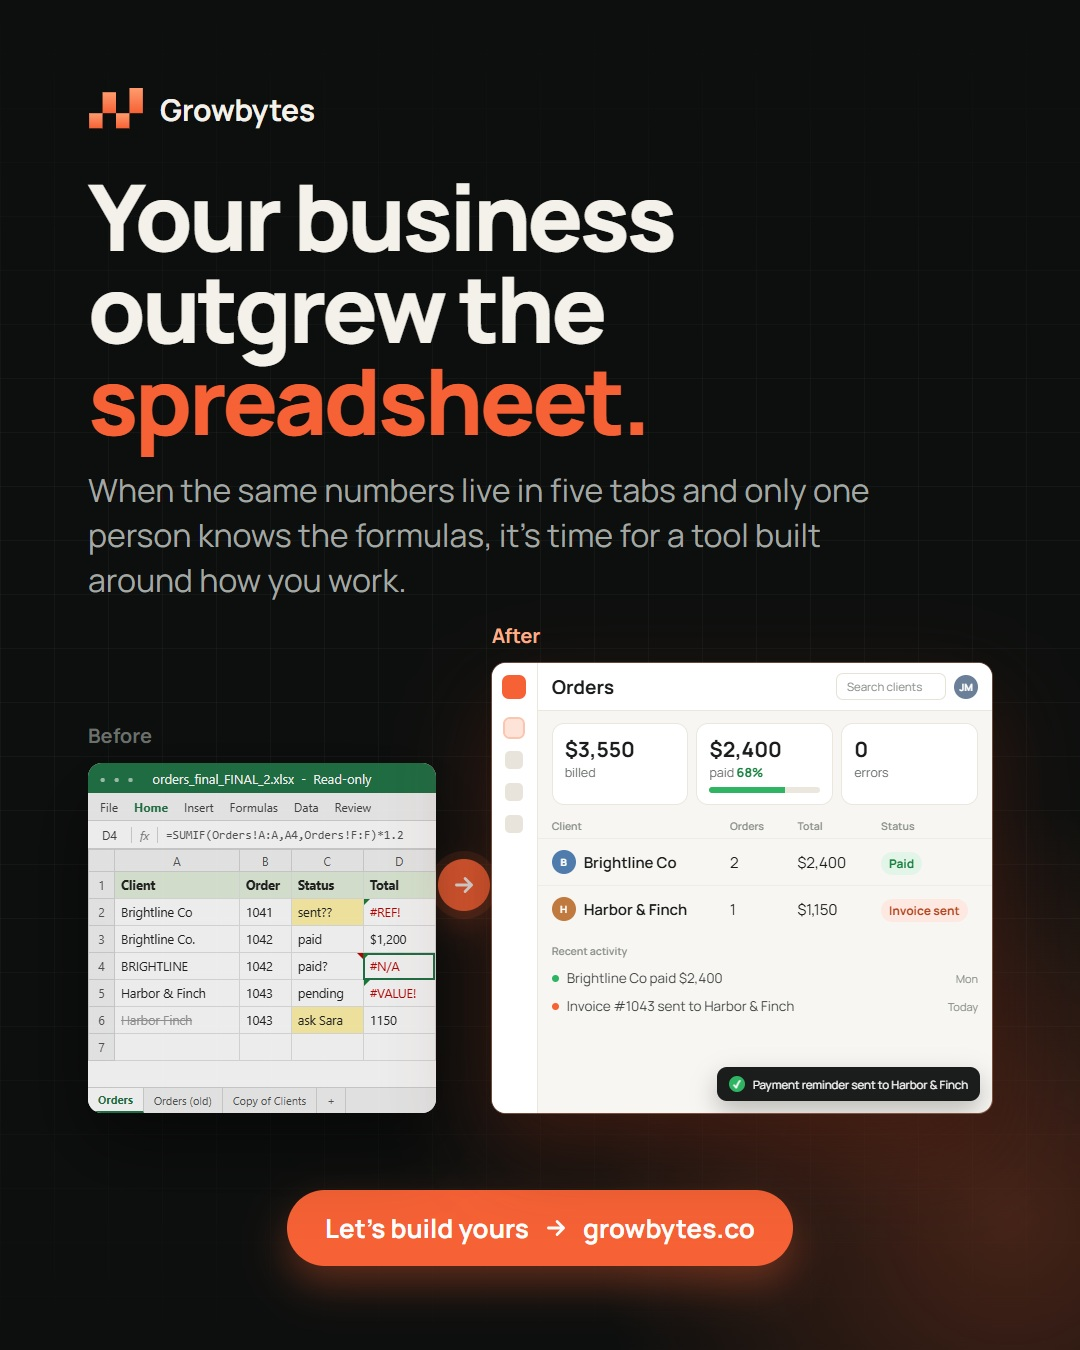
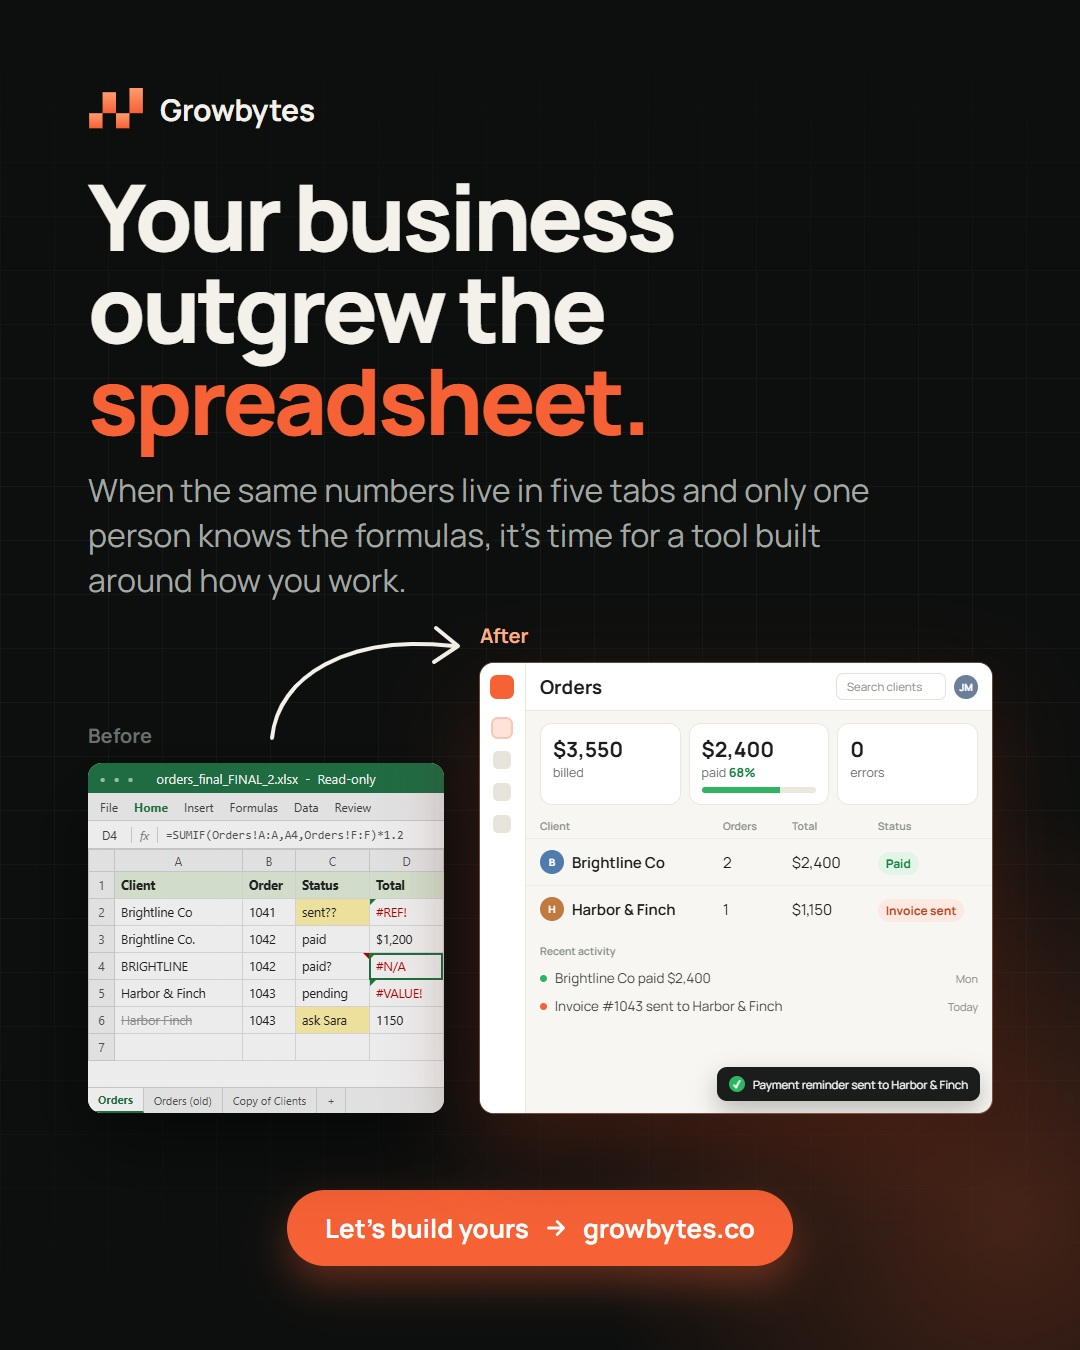
Social: curved arrow from before to after instead of the circle

diff --git a/brand/social/src/outgrew-spreadsheet.html b/brand/social/src/outgrew-spreadsheet.html
@@ -18,7 +18,7 @@
   h1 span { color:var(--orange); }
   .lead { margin-top:22px; font-size:32px; line-height:1.4; color:var(--muted); max-width:820px; }
 
-  .stage { margin-top:20px; display:grid; grid-template-columns:0.82fr 56px 1.18fr; align-items:end; }
+  .stage { margin-top:20px; display:grid; grid-template-columns:0.82fr 1.18fr; column-gap:36px; align-items:end; position:relative; }
   .label { font-size:20px; font-weight:700; margin-bottom:14px; }
   .label.before { color:var(--dim); }
   .label.after { color:var(--peach); }
@@ -90,6 +90,7 @@
   .toast { position:absolute; right:12px; bottom:12px; background:#1b1d1c; color:#fff; font-size:11.5px; padding:9px 12px; border-radius:10px; display:flex; gap:8px; align-items:center; box-shadow:0 10px 24px rgba(0,0,0,.25); }
   .toast b { width:16px; height:16px; border-radius:50%; background:#2fb463; display:grid; place-items:center; font-size:10px; }
 
+  .curve { position:absolute; left:170px; top:-6px; }
   .link { display:grid; place-items:center; align-self:center; padding-top:34px; }
   .link span { width:52px; height:52px; border-radius:50%; background:var(--orange); display:grid; place-items:center; box-shadow:0 0 0 8px rgba(246,97,53,.12), 0 14px 36px rgba(246,97,53,.35); }
 
@@ -131,7 +132,10 @@
         </div>
       </div>
 
-      <div class="link"><span><svg width="26" height="26" viewBox="0 0 24 24" fill="none" stroke="#fff" stroke-width="2.6" stroke-linecap="round" stroke-linejoin="round"><path d="M5 12h14M13 6l6 6-6 6"/></svg></span></div>
+      <svg class="curve" width="240" height="130" viewBox="0 0 240 130" fill="none" stroke="#f4f1ea" stroke-width="4" stroke-linecap="round" stroke-linejoin="round">
+        <path d="M14 122 C 20 60, 90 18, 196 30"/>
+        <path d="M178 12 L 200 30 L 176 46"/>
+      </svg>
 
       <div>
         <div class="label after">After</div>
